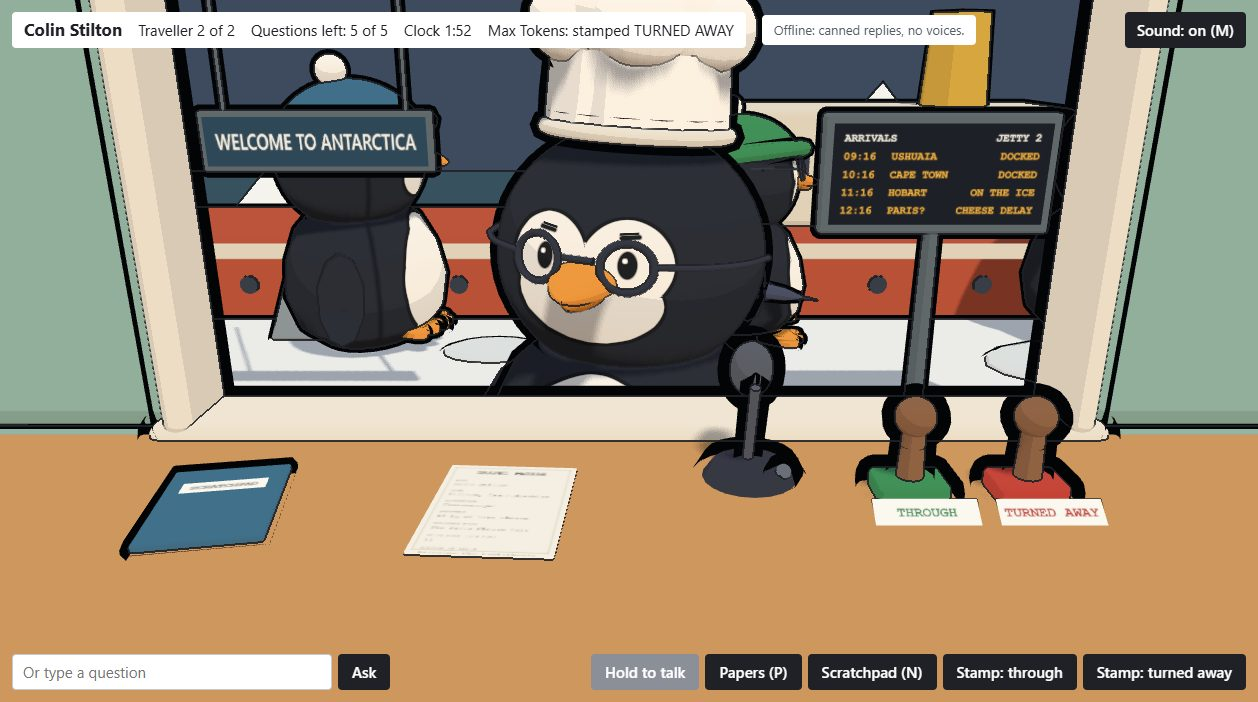
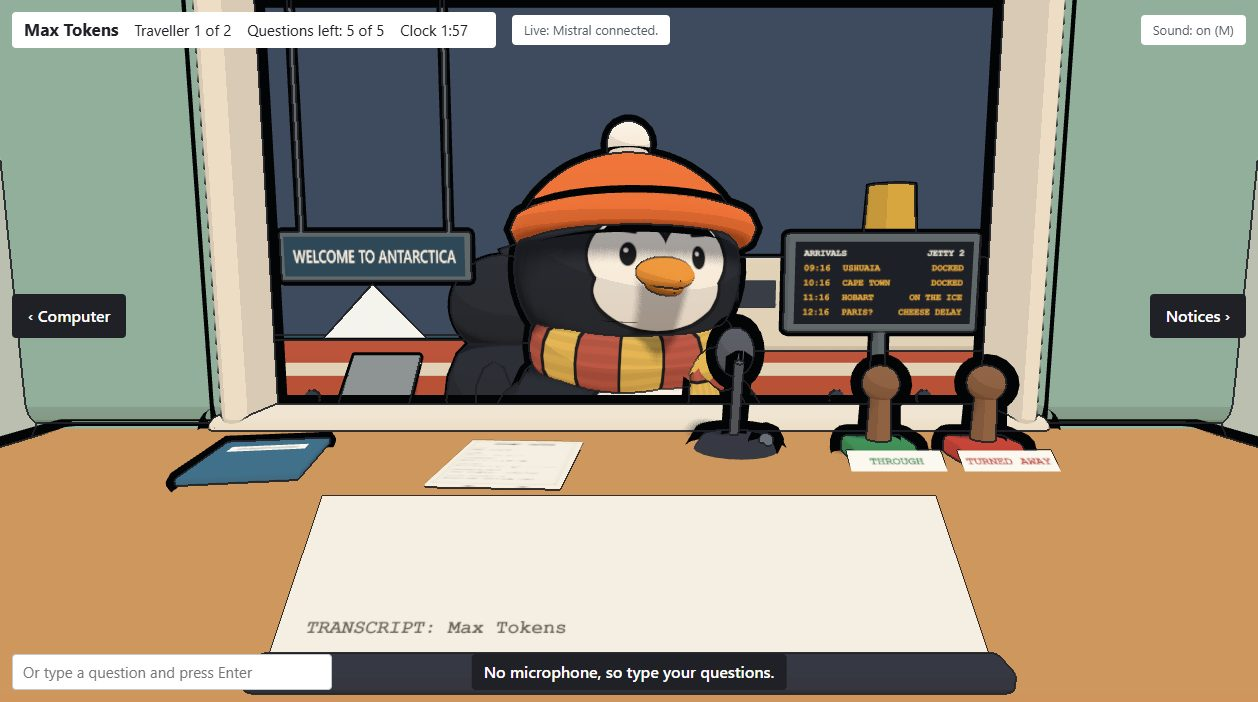
Sounds: the mute control is a status chip, not a button, to fit the no-buttons booth
Shahil 13:40: no on-screen button row. The control keeps its place in the
top bar and still works by click or M, but is drawn like the connection
status beside it. New proof screenshot on the three-view booth.

diff --git a/public/sounds.js b/public/sounds.js
@@ -171,7 +171,9 @@ export function createSounds({
     button = doc.createElement('button');
     button.id = 'mute';
     button.type = 'button';
-    button.style.cssText = 'background: var(--ink); color: #ffffff; margin-left: auto;';
+    // Drawn as a status chip like its neighbour, not a button: the booth has no
+    // button row (Shahil 13:40). M does the same from the keyboard.
+    button.style.cssText = 'margin-left: auto; min-height: 0; color: var(--muted); font: 13px/1.4 system-ui, sans-serif;';
     button.addEventListener('click', () => setMuted(!muted));
     bar.append(button);
     drawButton();
